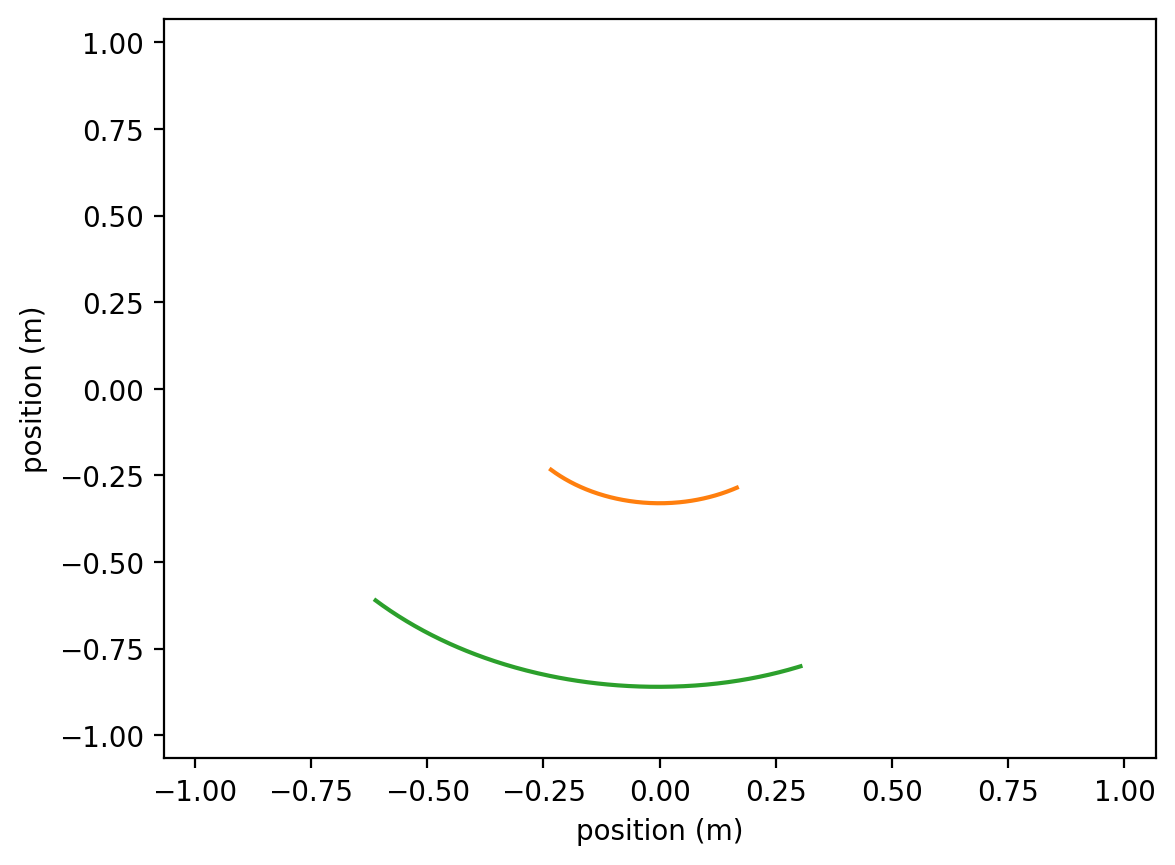
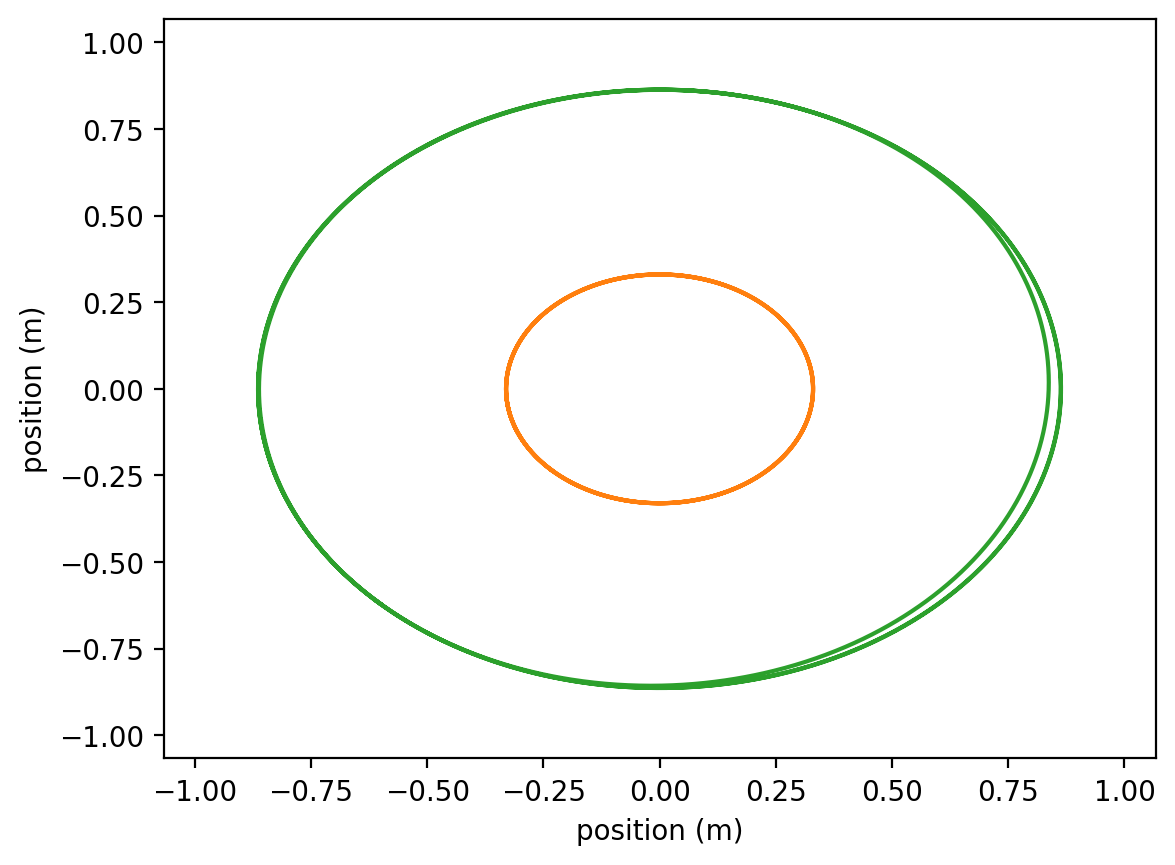
Project Updates

diff --git a/Arm_Control/tpp_class_ball.py b/Arm_Control/tpp_class_ball.py
@@ -76,8 +76,8 @@ class Ball():
         vel = vel0*airres
         x = vel*dt+x0
         y = -9.81*dt*dt+y0
-        close = np.array([(x0-x,y0-y) for x,y in obstacle])
-        if np.any(abs(close)<0.01) or y0<=0: #pretty close so lets just stick the ball to the obstacle (perfect catch)
+        close = np.sqrt((x0-obstacle[0])**2+(y0-obstacle[1])**2)
+        if np.any(abs(close)<0.01): #pretty close so lets just stick the ball to the obstacle (perfect catch)
             vel = 0
             x,y = x0,y0
             ballcatch = True
@@ -233,7 +233,7 @@ class TpPendulum(object):
             else:
                 z2dot = -k*theta2dot        
         
-        return theta1dot,theta2dot,z1dot, z2dot
+        return theta1dot,theta2dot,z1dot,z2dot
 
     def fbsolve(self,t,x0,y0,ballcatch):
         force = [self.controller2(x0,y0,i) for i in range(0,2)]
@@ -309,6 +309,35 @@ class TpPendulum(object):
                                        blit=True, init_func=init)
         # plt.close(fig)
         return anim
+    
+    def animate_ball_pendulum(self,ballxy):
+        x, y = self.get_xy_coords()
+        x0,y0 = ballxy[0,:]
+        lim = max(self.coeff[0])*2
+        fig, ax = plt.subplots(figsize=(6, 6))
+        fig.subplots_adjust(left=0, right=1, bottom=0, top=1)
+        # ax.axis('off')
+        ax.set(xlim=(-lim, lim), ylim=(-lim, lim))    
+        line, = ax.plot([], [], 'o-', lw=2)
+        ball = plt.Circle((x0,y0), 0.08)
+        ax.add_patch(ball)
+    
+        def init():
+            line.set_data([], [])
+            ball.set_center((x0,y0))            
+            return line, ball,
+    
+        def animate(i,Bpos):
+            xB,yB = Bpos[:,0],Bpos[:,1]
+            line.set_data(x[i], y[i])
+            ball.set_center((xB[i],yB[i]))
+            return line, ball,
+    
+        anim = animation.FuncAnimation(fig, animate, frames=len(self.t),
+                                       interval=self.f_s * self.t.max() / len(self.t),
+                                       blit=True, init_func=init)
+        # plt.close(fig)
+        return anim
 
 #%%       
 class Muscle_Mech():
@@ -344,17 +373,19 @@ class Muscle_Mech():
         for i in range(0,len(t_s)-1):
             t = [t_s[i],t_s[i+1]]
             dt = abs(t_s[i+1] - t_s[i])
-            vel,x,y,ballcatch = Ball.simple_ball(vel,x,y,dt,theta,obstacle)
-            Xp = Arm.ffsolve(t,vel,x,y,f1,f2,ballcatch)
-            obstacle = [(Arm.x,Arm.y)]
+            vel,x,y,ballcatch = Ball.simple_ball(vel,x,y,dt,theta,obstacle) #run ball dynamics
+            Xp = Arm.ffsolve(t,vel,x,y,f1,f2,ballcatch) #use pendulum differential equation to judge movement
+            obstacle = (Arm.x,Arm.y) #produce obstacle from the peripheral end of pendulum
         'end for'
+        print(ballcatch)
         tempB = np.stack(Ball.storeB)[:,1:]
-        tempP = np.stack(Arm.storeP)[:,0:2]
+        point1,point2 = Arm.get_xy_coords()
+        tempP = point2[:,1:]
         store = distance.cdist(tempB,tempP,'euclidean')
         val = np.argwhere(store == np.min(store))[0]
         time = Arm.t[val[0]]
         xB,yB = tempB[val[0]]
-        xA,yA = tempP[val[0]] #need to convert to x,y coordinates!!!!!!!!!
+        xA,yA = tempP[val[0]]
         diff = np.sqrt((xB-xA)**2+(yB-yA)**2)
         signx = xA-xB
         signy = yA-yB
@@ -432,7 +463,7 @@ if __name__ == "__main__":
     m2 = 5.715264/3
     damp = 5
     #mech
-    mgain = 100
+    mgain = 10
     forceint1 = mgain
     forceint2 = mgain
     maxiter = 20
@@ -440,7 +471,7 @@ if __name__ == "__main__":
     #ball
     e = 1 #coefficient of restitution
     mass = 2
-    obstacle = []
+    obstacle = (0,0)
     vel = .5
     y = .9
     x = -.8
@@ -461,29 +492,29 @@ if __name__ == "__main__":
     Ballobj = Ball(t_s,e,mass,initial_cond_ball)
     
     #### Feedforward ####    
-    f1adj = 0
-    f2adj = 0
-    count = 0
-    obstacle = [(0,0)]
-    while count < maxiter or not ballcatch:
-        Ballobj = Ball(t_s,e,mass,initial_cond_ball)
-        Armobj = TpPendulum(n,initial_cond_tpp,coeff_tpp,mgain,t_s,f_s)
-        f1adj,f2adj,ballcatch = mech.ff_iterator(Armobj, Ballobj, maxiter, vel, x, y,f1adj,f2adj, ballcatch)
-        count += 1
+    # f1adj = 0
+    # f2adj = 0
+    # count = 0
+    # obstacle = [(0,0)]
+    # while count < maxiter and not ballcatch:
+    #     Ballobj = Ball(t_s,e,mass,initial_cond_ball)
+    #     Armobj = TpPendulum(n,initial_cond_tpp,coeff_tpp,mgain,t_s,f_s)
+    #     f1adj,f2adj,ballcatch = mech.ff_iterator(Armobj, Ballobj, maxiter, vel, x, y,f1adj,f2adj, ballcatch)
+    #     count += 1
     
     #### Feedback ####
     for i in range(0,len(t_s)-1):
         t = [t_s[i],t_s[i+1]]
-        dt = abs(t_s[i+1] - t_s[i])
-        
-        # vel,x,y,ballcatch = Ballobj.simple_ball(vel,x,y,dt,theta,obstacle)
-        # Xp = Armobj.fbsolve(t,x,y,ballcatch)
-        # obstacle = [(Armobj.x,Armobj.y)]
+        dt = abs(t_s[i+1] - t_s[i])        
+        vel,x,y,ballcatch = Ballobj.simple_ball(vel,x,y,dt,theta,obstacle)
+        Xp = Armobj.fbsolve(t,x,y,ballcatch)
+        obstacle = (Armobj.x,Armobj.y)
         # Bp = Ballobj.solve(t)
-    # X = np.stack(Armobj.storeP)
-    # T = np.stack(Armobj.storeT)
-    # B = np.stack(Ball.storeB)
+    X = np.stack(Armobj.storeP)
+    T = np.stack(Armobj.storeT)
+    B = np.stack(Ballobj.storeB)
     Armobj.plot_pendulum_trace()
     Ballobj.plot_ball_trace()
-    anim = Armobj.animate_pendulum()
+    # anim = Armobj.animate_pendulum()
+    anim = Armobj.animate_ball_pendulum(B[:,1:])
         
